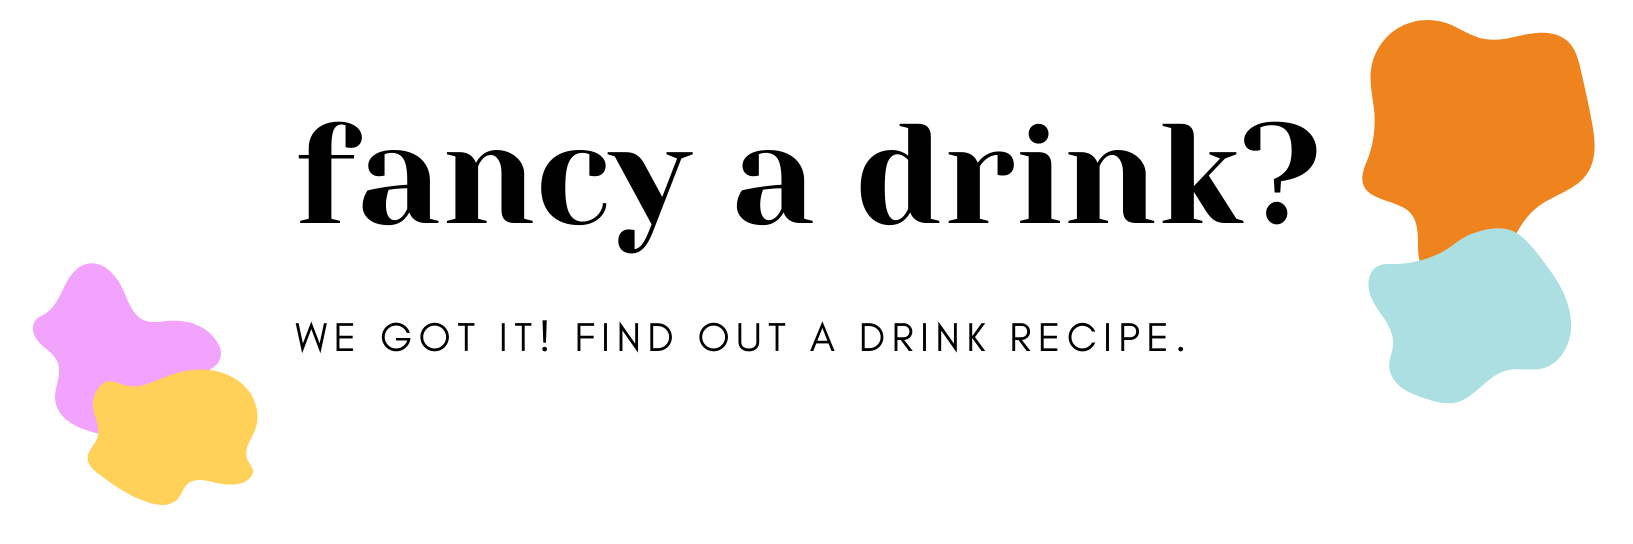
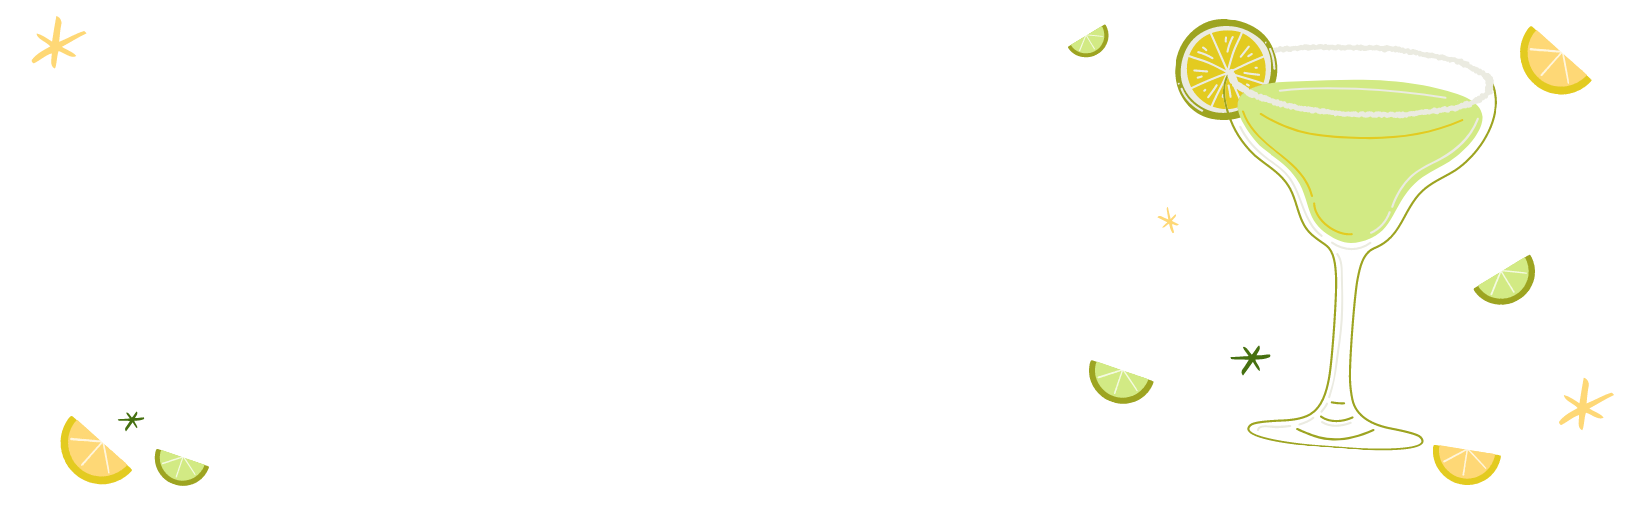
Styles

diff --git a/src/components/home/index.js b/src/components/home/index.js
@@ -1,20 +1,32 @@
 import Image from "../../components/image";
-import H1 from "../../components/h1";
+import H1 from "../h1";
+import H2 from "../h2";
 import landImage from "./land_image.png";
 import Button from "../../components/button";
 import css from "./home.module.css";
 
 export function Home() {
-  const landText = `Thirsty? We have hundreds and hundreds of delicious cocktail recipes from expert bartenders around the world. Make yourself at home and find out a new drink recipe.`;
+  const landText = `Find out hundreds of delicious cocktail recipes from expert bartenders around the world.`;
   const buttonText = `search a recipe`;
 
   return (
-    <div className={css.container}>
-      <Image src={landImage} alt={"image"} className={css.landPageImage} />
-      <H1
+    <div>
+      <div className={css.h1AndImageContainer}>
+        <H1
+          h1ClassName={css.landPageH1}
+          divH1ClassName={css.divH1}
+          text="Fancy a drink?"
+        />
+        <Image
+          src={landImage}
+          alt={"Fancy a drink?"}
+          className={css.landPageImage}
+        />
+      </div>
+      <H2
         text={landText}
-        h1ClassName={css.landPageH1}
-        divH1ClassName={css.divH1}
+        h2ClassName={css.landPageH2}
+        divH2ClassName={css.divH2}
       />
       <Button text={buttonText} className={css.homeButton} />
     </div>

diff --git a/src/components/home/home.module.css b/src/components/home/home.module.css
@@ -1,0 +1,53 @@
+@import url("https://fonts.googleapis.com/css2?family=Noto+Sans&display=swap");
+@import url("https://fonts.googleapis.com/css2?family=Indie+Flower&display=swap");
+@import url("https://fonts.googleapis.com/css2?family=Indie+Flower&family=Permanent+Marker&display=swap");
+
+.h1AndImageContainer {
+  display: flex;
+  flex-direction: row;
+  justify-content: center;
+}
+
+.landPageH1 {
+  font-size: 80px;
+  margin-top: 100px;
+  margin-left: 60px;
+  position: absolute;
+  letter-spacing: 2px;
+  font-family: "Indie Flower", cursive;
+  font-family: "Permanent Marker", cursive;
+  color: #406d2c;
+}
+
+.divH2 {
+  display: flex;
+  flex-flow: row;
+  justify-content: center;
+  margin-top: 30px;
+}
+
+.landPageH2 {
+  font-family: "Noto Sans", sans-serif;
+  font-size: 21px;
+  text-align: center;
+  color: #5e751d;
+}
+
+.landPageImage {
+  margin-top: 20px;
+  max-width: 1200px;
+  max-height: 300px;
+}
+
+.homeButton {
+  margin-top: 40px;
+  padding: 10px 15px 10px 15px;
+  width: 160px;
+  border: 1px solid #9db45d;
+  background-color: #9db45d;
+  color: rgb(255, 255, 255);
+  font-size: 17px;
+  font-weight: bold;
+  font-family: "Noto Sans", sans-serif;
+  border-radius: 30px;
+}
